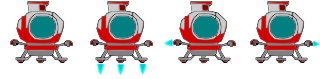
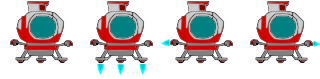
inputs are up

Changed region(s): [[0.5, 0.0, 0.75, 0.8101]]

diff --git a/plander.min.js b/plander.min.js
@@ -1,1 +1,1 @@
-function preload(){game.load.image("background","images/2.jpg"),game.load.spritesheet("lander0","images/lander.png",80,79,4)}function create(){background=game.add.tileSprite(0,0,800,600,"background"),craft=game.add.sprite(350,0,"lander0")}function update(){}var game=new Phaser.Game(800,600,Phaser.AUTO,"play",{preload:preload,create:create,update:update});
+function preload(){game.load.image("background","images/2.jpg"),game.load.spritesheet("lander0","images/lander.png",80,79,4)}function create(){background=game.add.tileSprite(0,0,800,600,"background"),craft=game.add.sprite(350,0,"lander0",0),game.physics.startSystem(craft,Phaser.Physics.ARCADE),game.physics.arcade.enable(craft),game.physics.arcade.gravity.y=18,craft.body.collideWorldBounds=!0}function update(){game.input.keyboard.isDown(Phaser.Keyboard.DOWN)?(craft.body.acceleration.y-=1,craft.frame=1):game.input.keyboard.isDown(Phaser.Keyboard.LEFT)?(craft.body.acceleration.x+=.9,craft.frame=2):game.input.keyboard.isDown(Phaser.Keyboard.RIGHT)?(craft.body.acceleration.x-=.9,craft.frame=3):(craft.body.acceleration.y=0,craft.body.acceleration.x=0,craft.frame=0)}var game=new Phaser.Game(800,600,Phaser.AUTO,"play",{preload:preload,create:create,update:update});

diff --git a/plander.js b/plander.js
@@ -11,10 +11,26 @@ function preload() {
 
 function create() {
     background = game.add.tileSprite(0, 0, 800, 600, "background");
-    craft = game.add.sprite(350, 0, "lander0");
-    //craft.frame = 0;
+    craft = game.add.sprite(350, 0, "lander0", 0);
+    game.physics.startSystem(craft, Phaser.Physics.ARCADE);
+    game.physics.arcade.enable(craft);
+    game.physics.arcade.gravity.y = 18;
+    craft.body.collideWorldBounds = true;
 }
 
 function update() {
-
+    if (game.input.keyboard.isDown(Phaser.Keyboard.DOWN)) {
+        craft.body.acceleration.y -= 1;
+        craft.frame = 1;
+    } else if (game.input.keyboard.isDown(Phaser.Keyboard.LEFT)) {
+        craft.body.acceleration.x += 0.9;
+        craft.frame = 2;
+    } else if (game.input.keyboard.isDown(Phaser.Keyboard.RIGHT)) {
+        craft.body.acceleration.x -= 0.9;
+        craft.frame = 3;
+    } else {
+        craft.body.acceleration.y = 0;
+        craft.body.acceleration.x = 0;
+        craft.frame = 0;
+    }
 }

diff --git a/index.html b/index.html
@@ -9,8 +9,8 @@
     <meta name="description" content="A fun multiplayer game.">
     <link href='http://fonts.googleapis.com/css?family=Amatic+SC' rel='stylesheet' type='text/css'>
     <link href="main.min.css" rel="stylesheet" type="text/css">
-    <script src="scripts/phaser.min.js" type="text/javascript"></script>
-    <script src="plander.js" type="text/javascript"></script>
+    <script src="phaser.min.js" type="text/javascript"></script>
+    <script src="plander.min.js" type="text/javascript"></script>
 
 </head>
 
